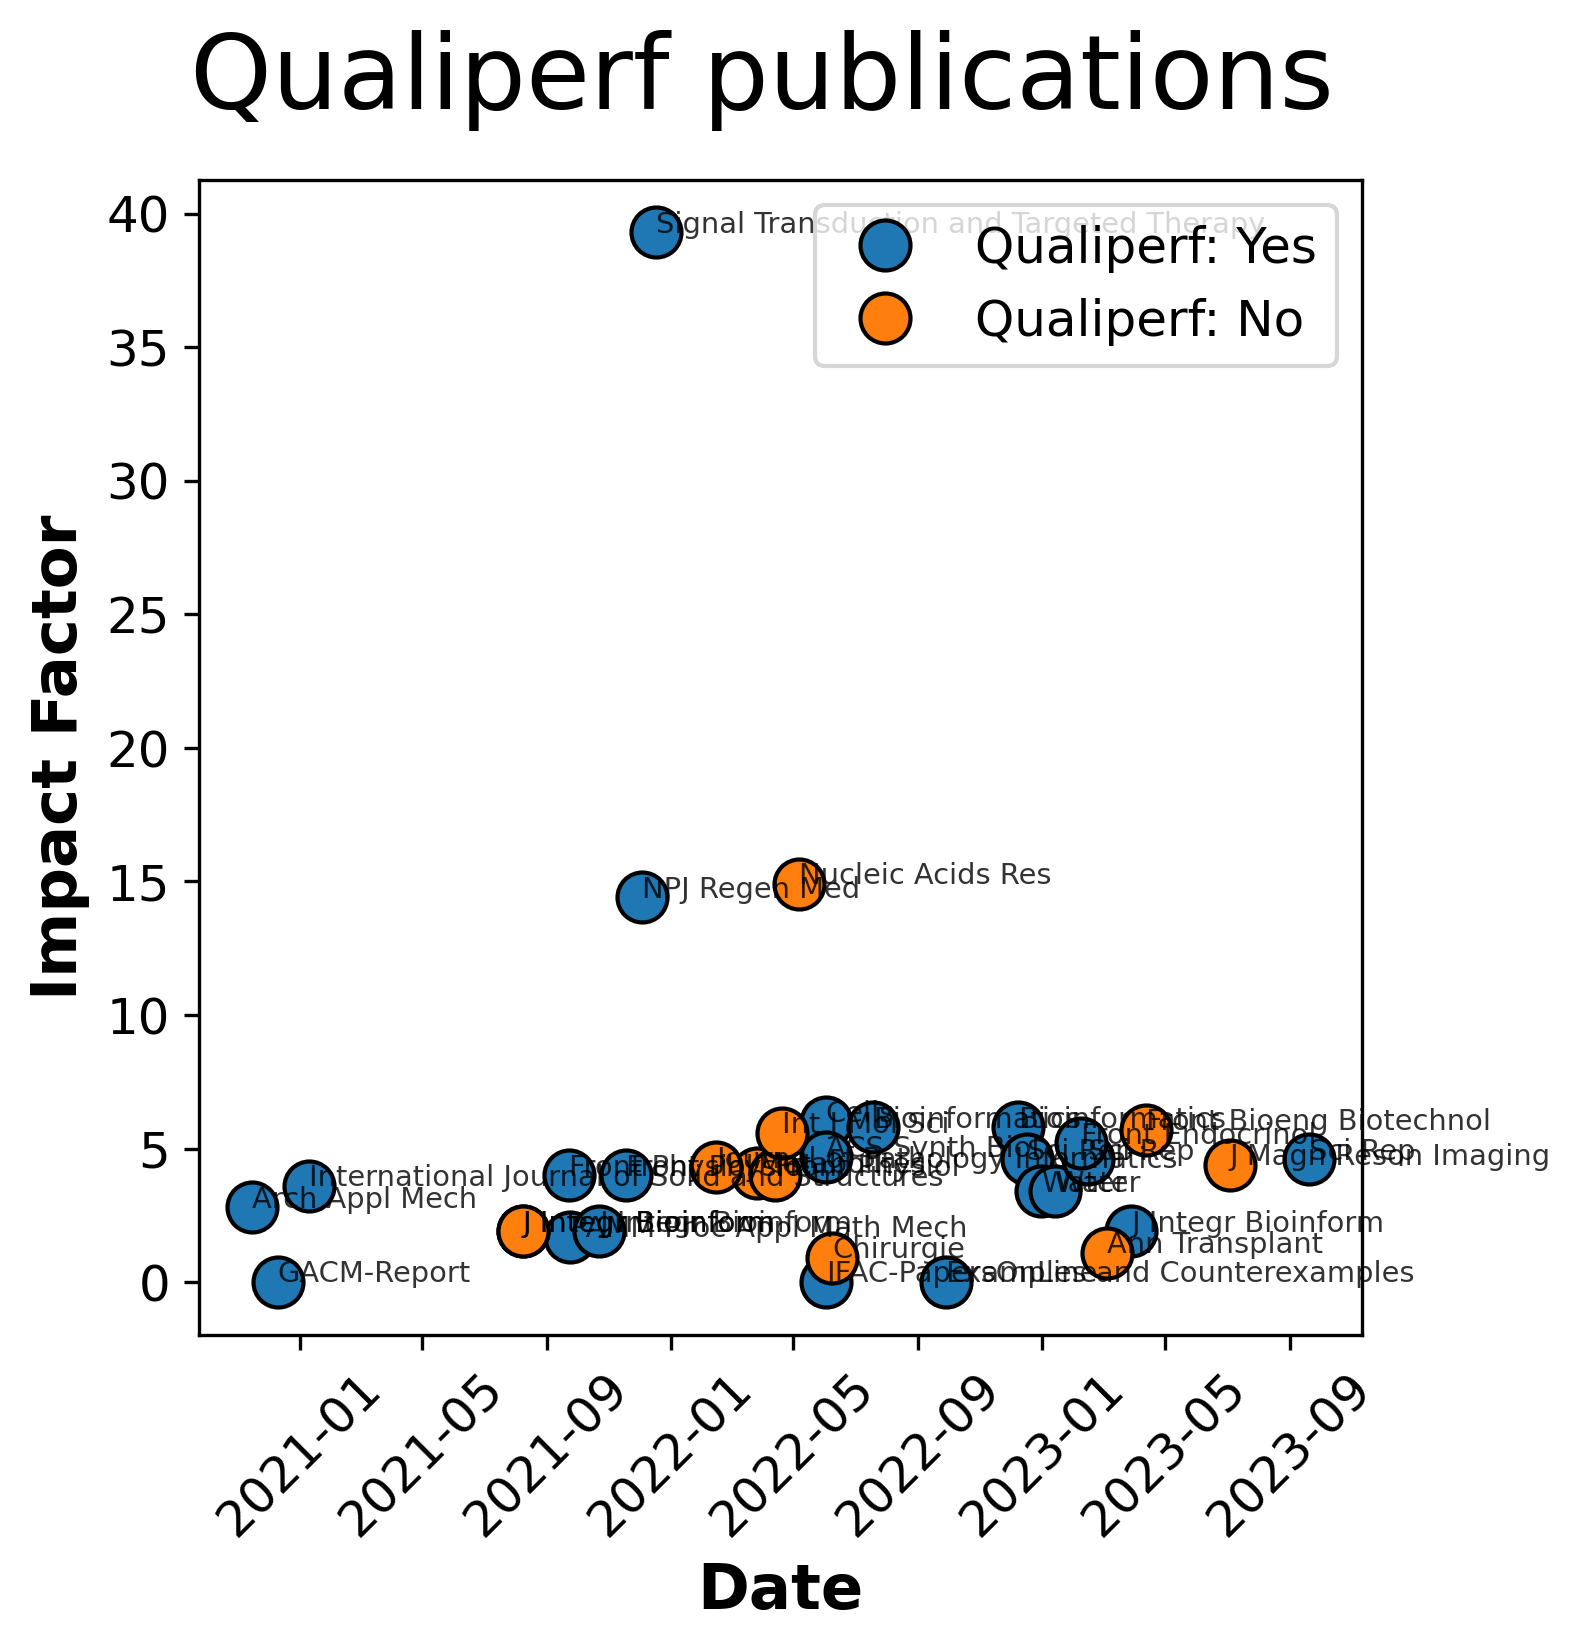
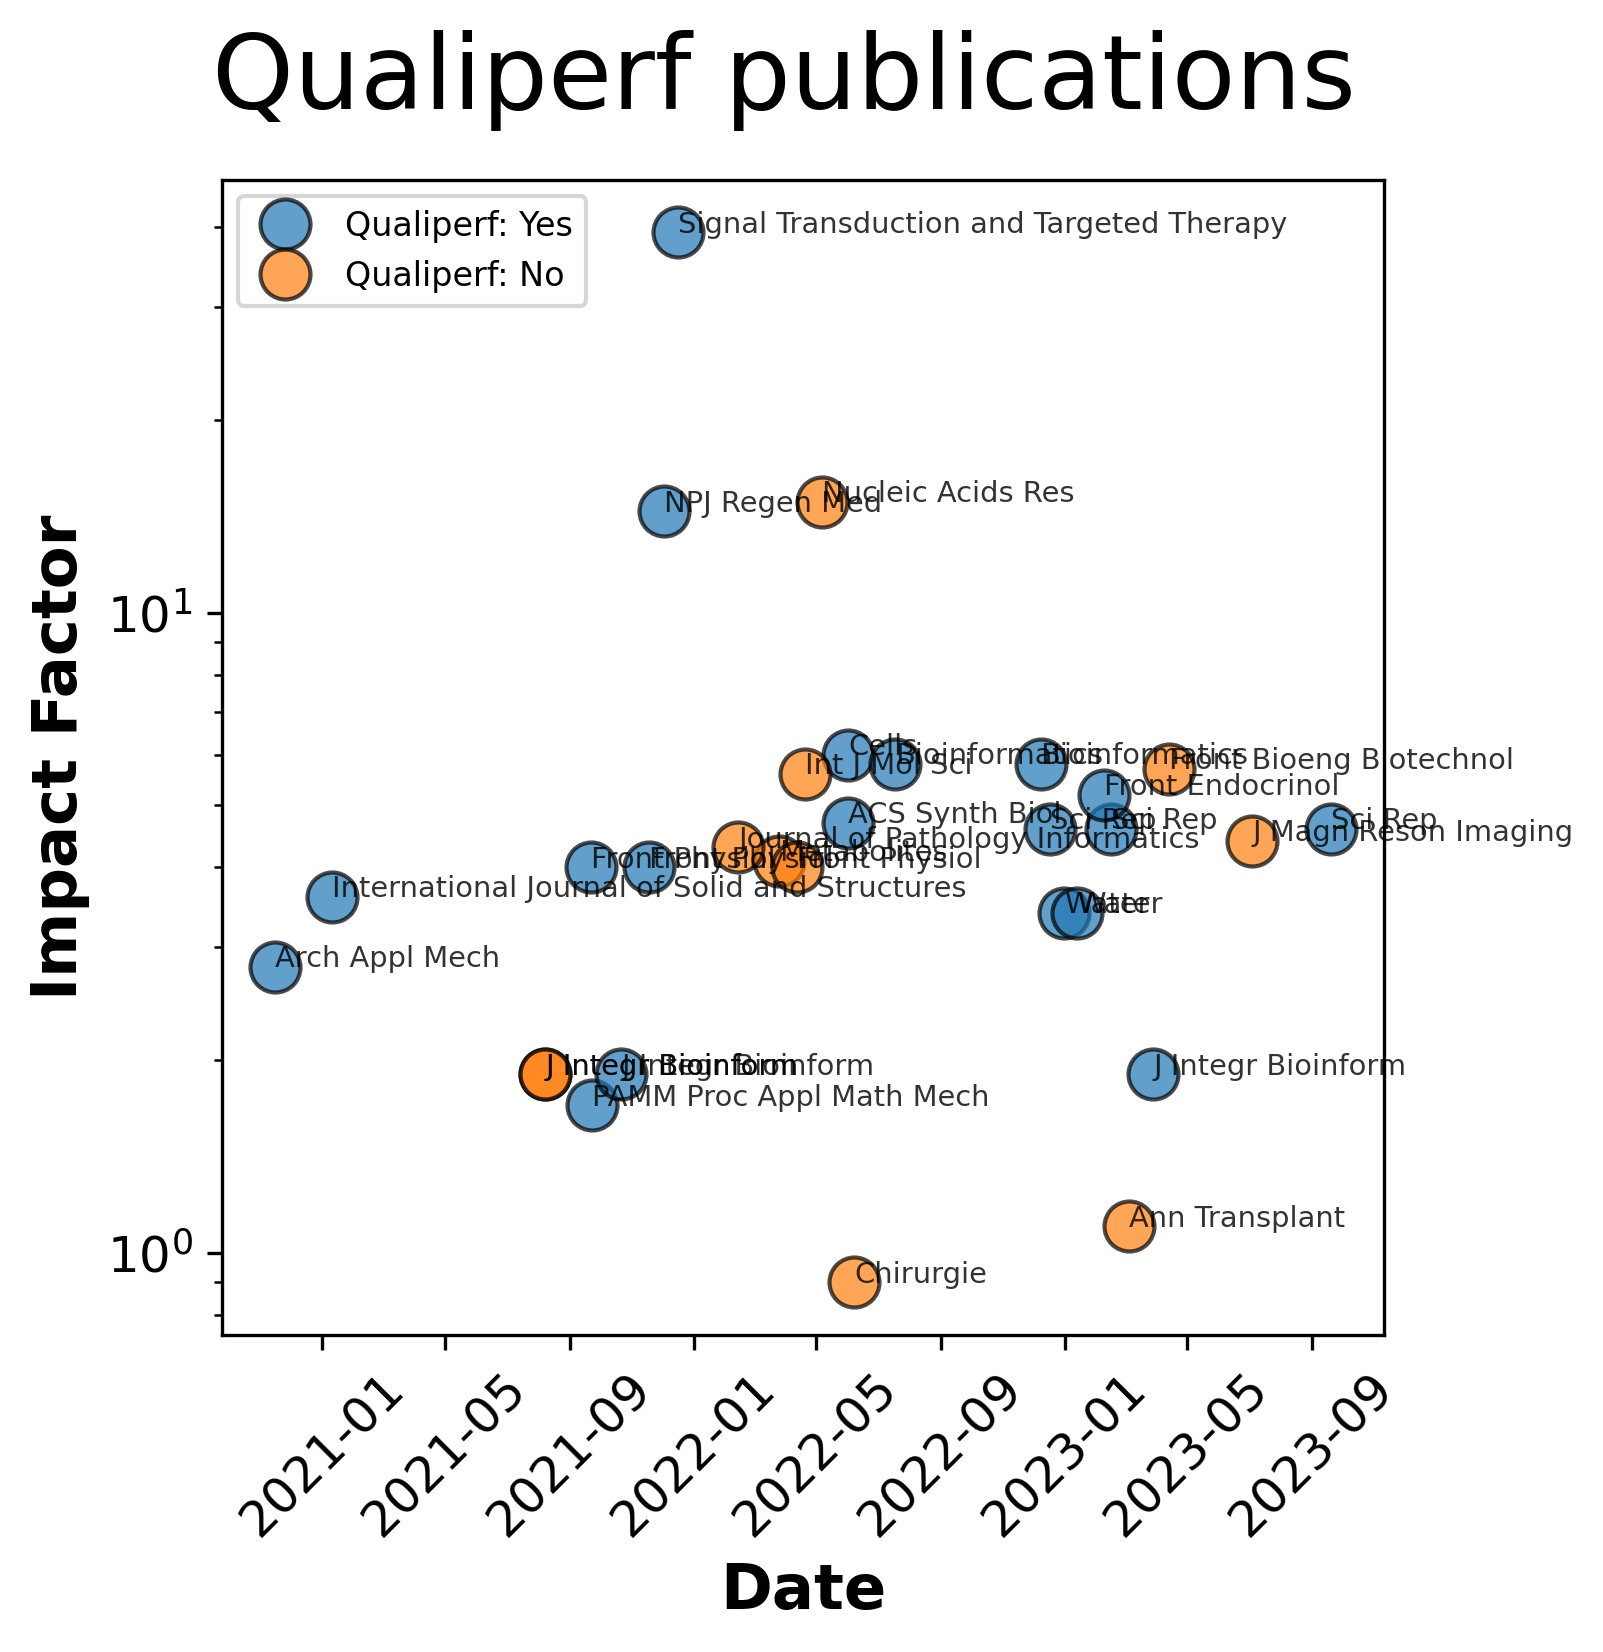
minor fixes publication visualization

diff --git a/src/data_processing/news_statistics.py b/src/data_processing/news_statistics.py
@@ -154,9 +154,12 @@ def visualize_publications(df: pd.DataFrame, fig_path: Path):
     ax1.set_xlabel("Date", fontdict={"weight": "bold"})
     ax1.set_ylabel("Impact Factor", fontdict={"weight": "bold"})
 
+    # FIXME: add preprints in different symbol
+
     dfs = [
-        df[df.Qualiperf == "Yes"],
-        df[df.Qualiperf == "No"]
+        # Filter IF = 0
+        df[(df.Qualiperf == "Yes") & (df.IF > 0)],
+        df[(df.Qualiperf == "No") & (df.IF > 0)]
     ]
     colors = ["tab:blue", "tab:orange"]
     labels = ["Qualiperf: Yes", "Qualiperf: No"]
@@ -167,10 +170,12 @@ def visualize_publications(df: pd.DataFrame, fig_path: Path):
             linestyle="",
             marker="o",
             markersize=12,
+            alpha=0.7,
             markeredgecolor="black",
             color=colors[k],
             label=labels[k],
         )
+        ax1.set_yscale("log")
         # annotate Jornals
         for index, row in df.iterrows():
             ax1.annotate(
@@ -182,7 +187,7 @@ def visualize_publications(df: pd.DataFrame, fig_path: Path):
     # rotate labels
     ax1.set_xticklabels(ax1.get_xticklabels(), rotation=45)
 
-    ax1.legend()
+    ax1.legend(loc=2, prop={'size': 8}, frameon=True)
     plt.show()
     fig.savefig(fig_path, bbox_inches="tight")
 
@@ -194,3 +199,5 @@ if __name__ == "__main__":
 
     fig_publications = Path(__file__).parent.parent.parent / "assets" / "news" / "qualiperf_publications.png"
     visualize_publications(df=dfs["publications"], fig_path=fig_publications)
+
+    # FIXME: cumulative count diagrams for achievements
